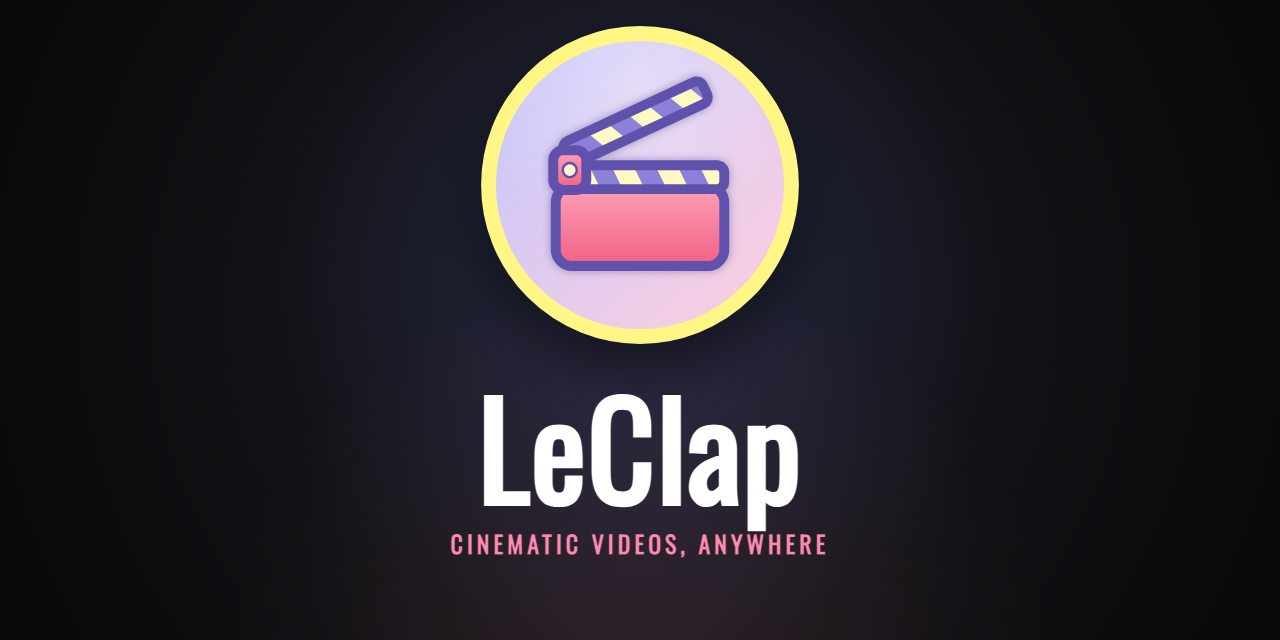
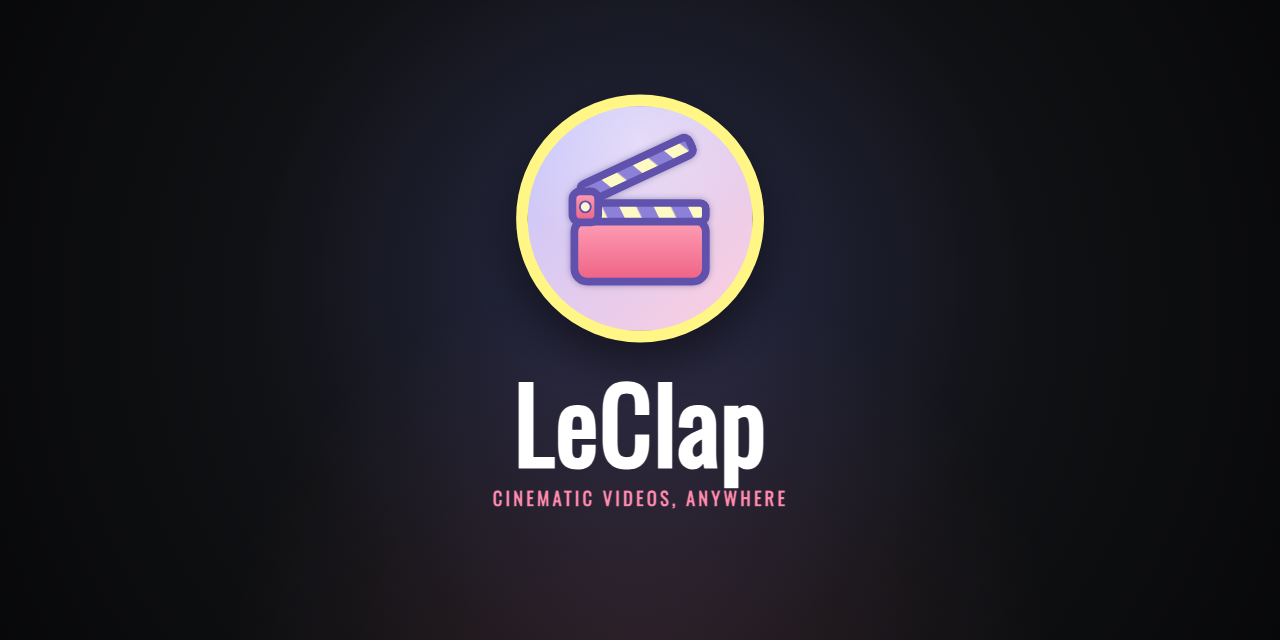
fix(brand-motion): give the social cards a safe margin

Changed region(s): [[0.375, 0.0312, 0.625, 0.5312], [0.3438, 0.5938, 0.6562, 0.875]]

diff --git a/packages/leclap-brand-motion/src/Root.tsx b/packages/leclap-brand-motion/src/Root.tsx
@@ -60,7 +60,9 @@ export const RemotionRoot = () => (
       defaultProps={kineticProps}
     />
     {/* 1200x630 social card (og:image / twitter:image). Rendered as a still on the settled
-        final frame via `pnpm --filter @leclap/brand-motion render:og`. */}
+        final frame via `pnpm --filter @leclap/brand-motion render:og`.
+        Same crowding as the GitHub card — 547px of stack in a 630px frame leaves ~19px above the disc
+        once the -22px lift applies. Scaled so the mark keeps a margin wherever a feed crops it. */}
     <Composition
       id="LeClapOg"
       component={Bumper}
@@ -68,11 +70,14 @@ export const RemotionRoot = () => (
       fps={30}
       width={1200}
       height={630}
-      defaultProps={bumperProps}
+      defaultProps={{ ...bumperProps, scale: 0.82 }}
     />
     {/* GitHub's social preview is a 1280x640 upload — anything else is cropped to it, so this is a
         separate composition from LeClapOg (1200x630, the og:image the site serves). Same bumper,
-        rendered as a still on its settled last frame by `render:og`. */}
+        rendered as a still on its settled last frame by `render:og`.
+        Scaled to 0.78: at 1:1 the stack leaves ~14px above the disc once the push settles, so the mark
+        reads as clipped in GitHub's card and gets cut outright by platforms that crop tighter than 2:1
+        (X renders link cards nearer 1.91:1). 0.78 buys ~100px of top and bottom margin. */}
     <Composition
       id="LeClapSocialPreview"
       component={Bumper}
@@ -80,7 +85,7 @@ export const RemotionRoot = () => (
       fps={30}
       width={1280}
       height={640}
-      defaultProps={bumperProps}
+      defaultProps={{ ...bumperProps, scale: 0.78 }}
     />
     {/* The README/npm hero: the Android demo rendering on-device, in a phone frame with the pitch
         beside it. Encoded to an animated GIF because npm strips GitHub's video attachments, so the

diff --git a/packages/leclap-brand-motion/src/Bumper.tsx b/packages/leclap-brand-motion/src/Bumper.tsx
@@ -22,9 +22,16 @@ export interface BumperProps {
   wordmark?: string;
   /** The small tagline under the wordmark (rendered uppercase). */
   tagline?: string;
+  /**
+   * Uniform scale on the mark + wordmark stack. The stack is a fixed ~547px tall (disc 328, gap 44,
+   * wordmark 132, gap 14, tagline 29), which fits a square frame but crowds a short one: at 1280x640
+   * the settled push (1.06) and the -22px lift put the disc within ~14px of the top edge, and social
+   * platforms crop further still. Scale it down for wide cards so the mark keeps a real margin.
+   */
+  scale?: number;
 }
 
-export const Bumper = ({ wordmark = 'LeClap', tagline = 'CINEMATIC VIDEOS, ANYWHERE' }: BumperProps) => {
+export const Bumper = ({ wordmark = 'LeClap', tagline = 'CINEMATIC VIDEOS, ANYWHERE', scale = 1 }: BumperProps) => {
   const frame = useCurrentFrame();
   const { fps, durationInFrames } = useVideoConfig();
   const r = (s: number) => Math.round(s * fps);
@@ -92,7 +99,9 @@ export const Bumper = ({ wordmark = 'LeClap', tagline = 'CINEMATIC VIDEOS, ANYWH
           flexDirection: 'column',
           alignItems: 'center',
           gap: 44,
-          transform: 'translateY(-22px)',
+          // The -22px lift centres the stack optically (the tagline reads lighter than the disc), but
+          // it eats top margin, so it scales with the stack rather than staying a fixed 22px.
+          transform: `scale(${scale}) translateY(${-22 * scale}px)`,
         }}
       >
         <div
